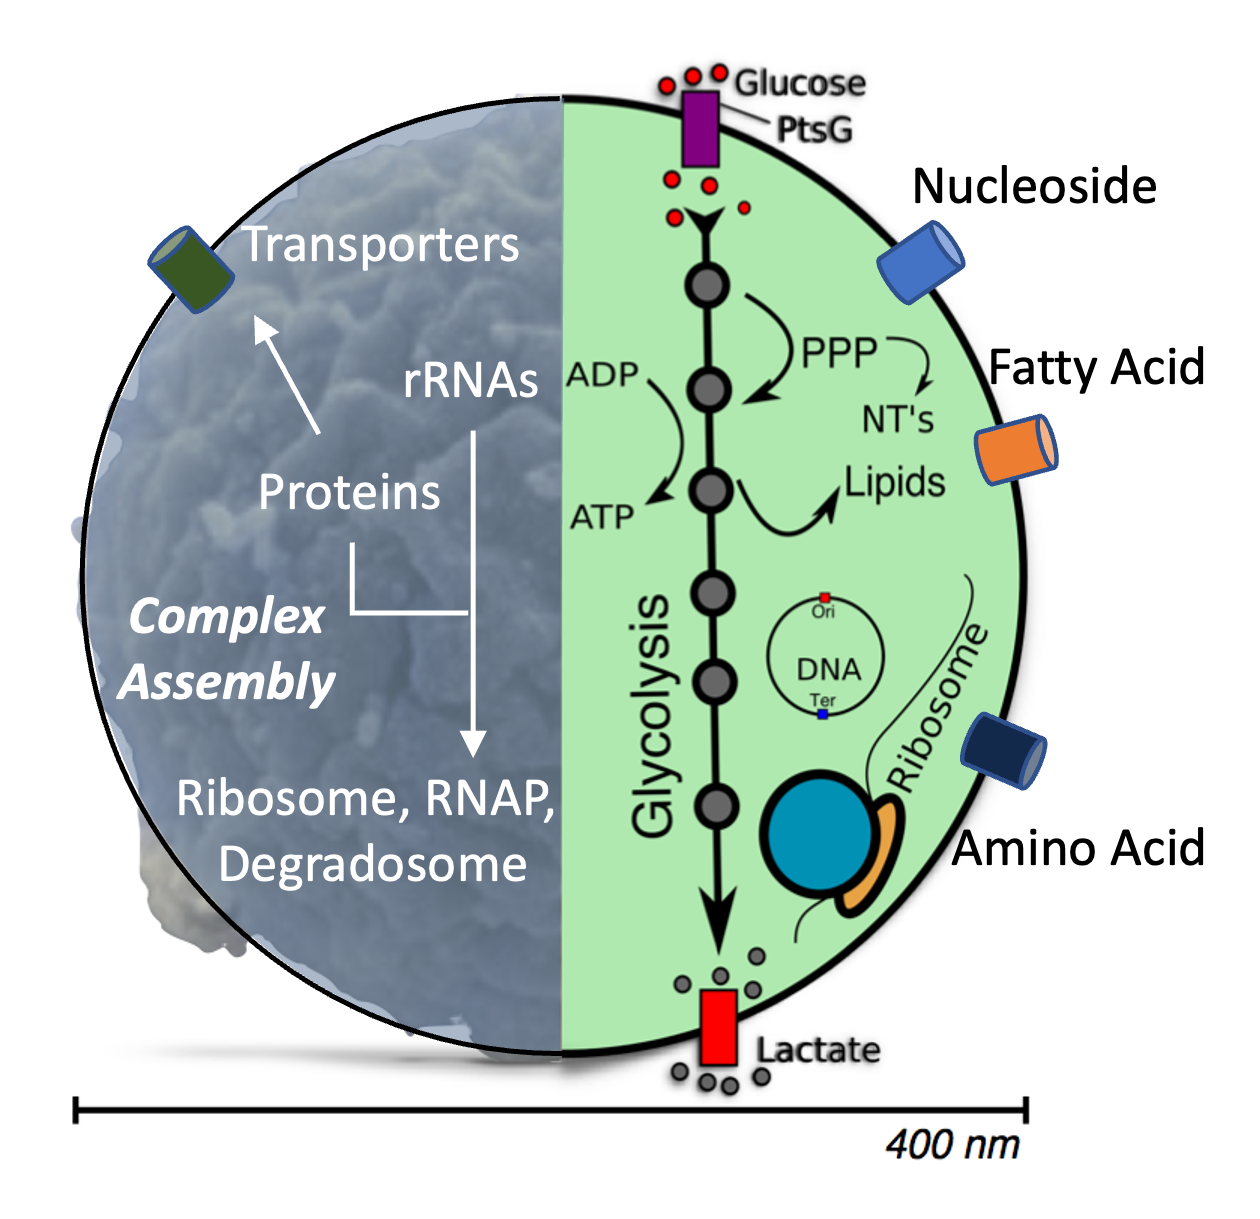
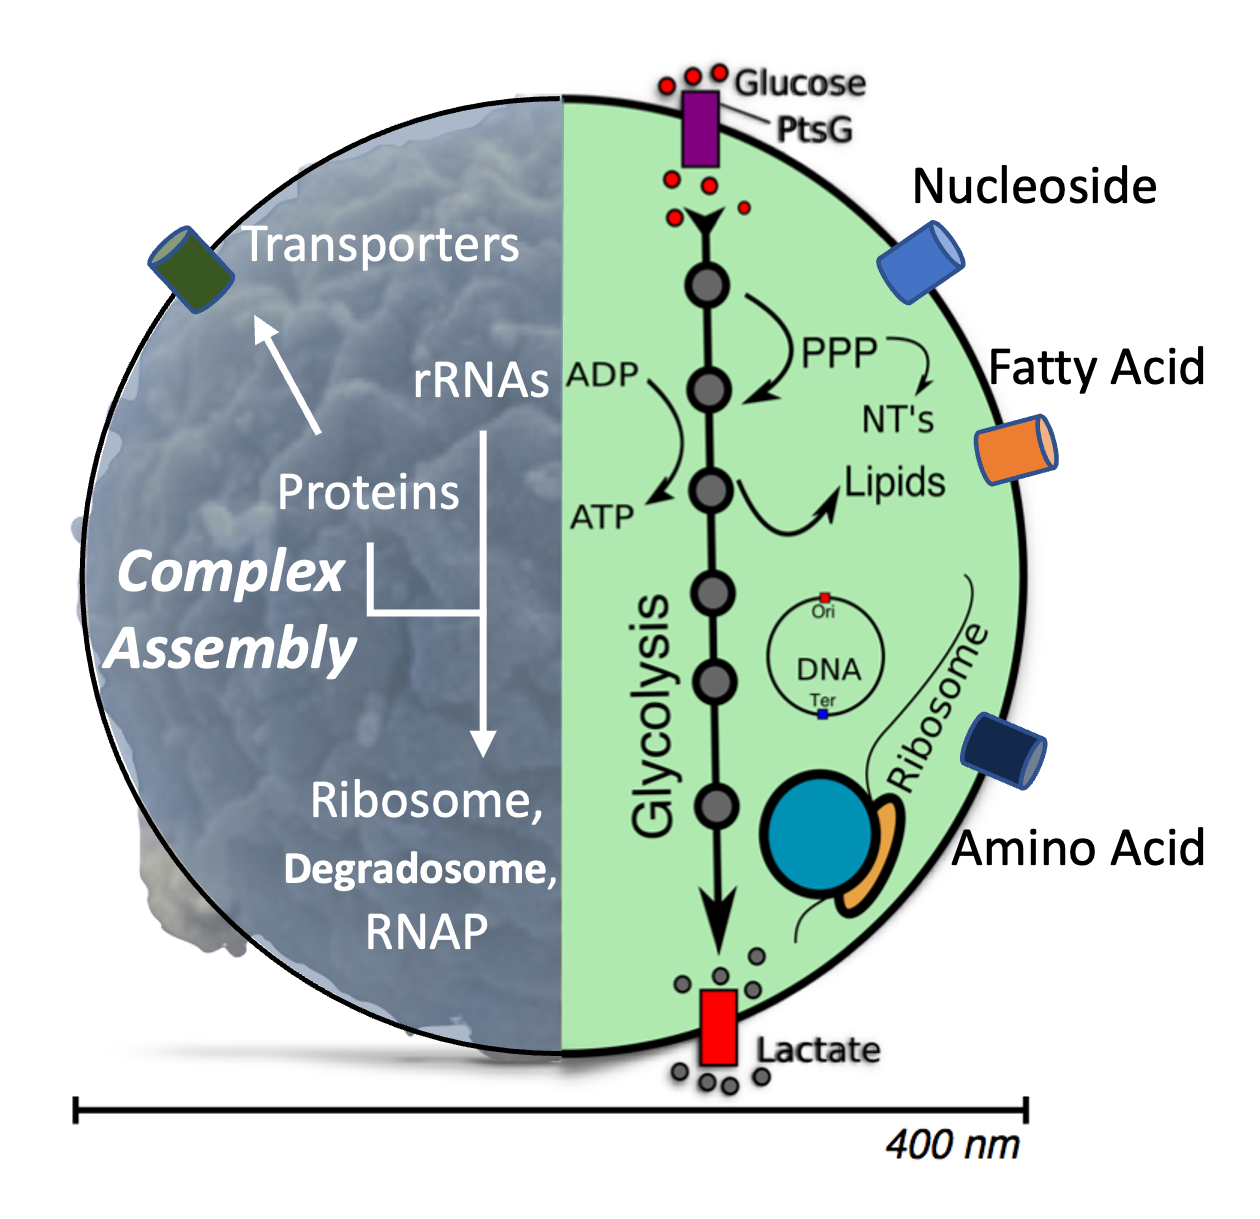
update syn3A png

Changed region(s): [[0.0619, 0.2806, 0.4333, 0.7793], [0.2167, 0.3117, 0.2476, 0.3429]]

diff --git a/CME/WCM/README.md b/CME/WCM/README.md
@@ -1,7 +1,6 @@
 # CME-ODE Whole-Cell Model of a Genetically Minimal Cell, JCVI-Syn3A
 
 Now, we are at the last tutorial, the CME-ODE WCM of Syn3A.
-<img align="right" width="300" src="../figs/figs_WCM/syn3A_wcomplex.png">
 
 ## Outline:
 1. [Run CME/ODE Whole-Cell Model in Parallel](#1-run-cmeode-whole-cell-model-in-parallel)
@@ -10,7 +9,7 @@ Now, we are at the last tutorial, the CME-ODE WCM of Syn3A.
 4. [Macromolecular Complex Assembly](#4-macromolecular-complex-assembly)
 5. [Hybrid CME-ODE Algorithm](#5-hybrid-cme-ode-algorithm)
 6. [Analysis and Discussion](#6-analysis-and-discussion)
-  
+
 ## 1. Run CME/ODE Whole-Cell Model in Parallel
 
 To capture statistically meaningful cellular dynamics, we simulate multiple independent cell replicates. To accelerate this process, running the simulations in parallel is essential. In our current setup, we use the `mpirun` module to launch the Python simulation scripts in parallel.
@@ -195,9 +194,11 @@ The minimal cell **JCVI-syn3A** is a synthetic bacterium derived from the parent
 JCVI-syn3A possesses the smallest genome among autonomously replicating organisms, measuring 543 kbp and encoding 452 protein-coding genes and 38 RNA genes. Remarkably, only 90 of the 452 protein-coding genes are of unknown function—a lower fraction than observed in other well-studied organisms such as *Saccharomyces cerevisiae* and *Escherichia coli*[^breuer_metabolism].
 
 <p align="center">
-  <img src="../figs/figs_WCM/syn3A_genome.png" width="450" alt="Minimized Genome"> <br>
+  <img src="../figs/figs_WCM/genome.png" width="300" alt="Minimized Genome"> 
+  <img src="../figs/figs_WCM/syn3A_wcomplex.png" width="300" alt="Minimized Genome"> 
+  <br>
   <b>Figure 5. Left: Annotated protein-coding genes in JCVI-syn3A, with fewer than 90 of unknown function. <br>
-  Right: A visual summary of JCVI-syn3A’s genetic information processes and metabolism.</b>
+  Right: A visual summary of JCVI-syn3A’s genetic information processes, complex formation, and metabolism.</b>
 </p>
 
 ### Genetic Information Processes
